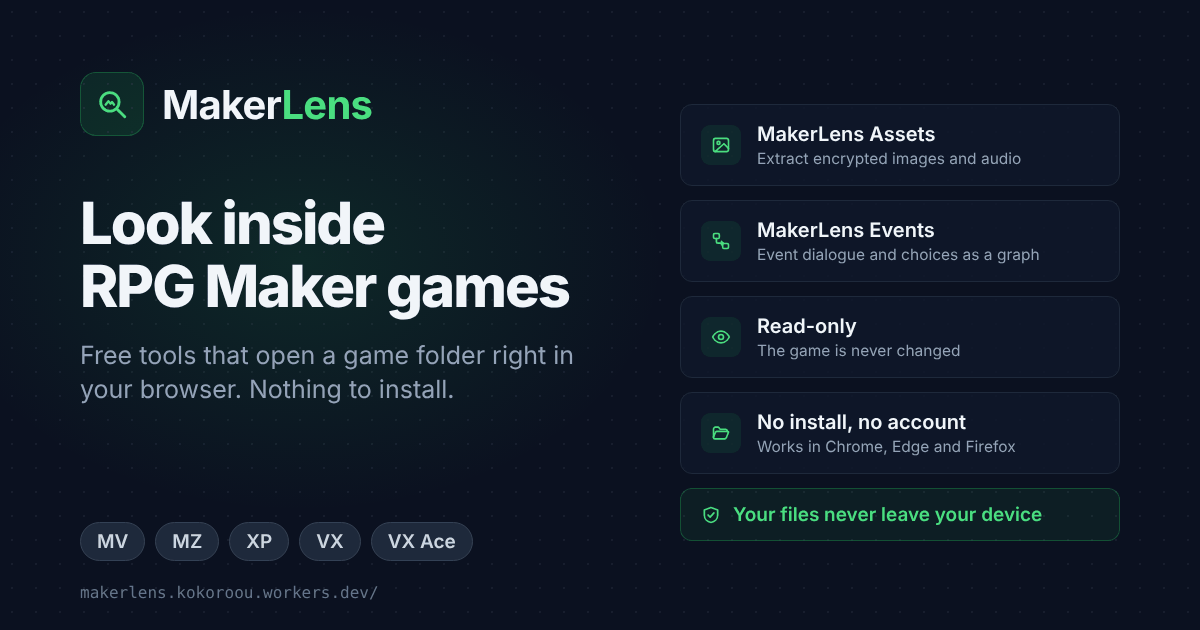
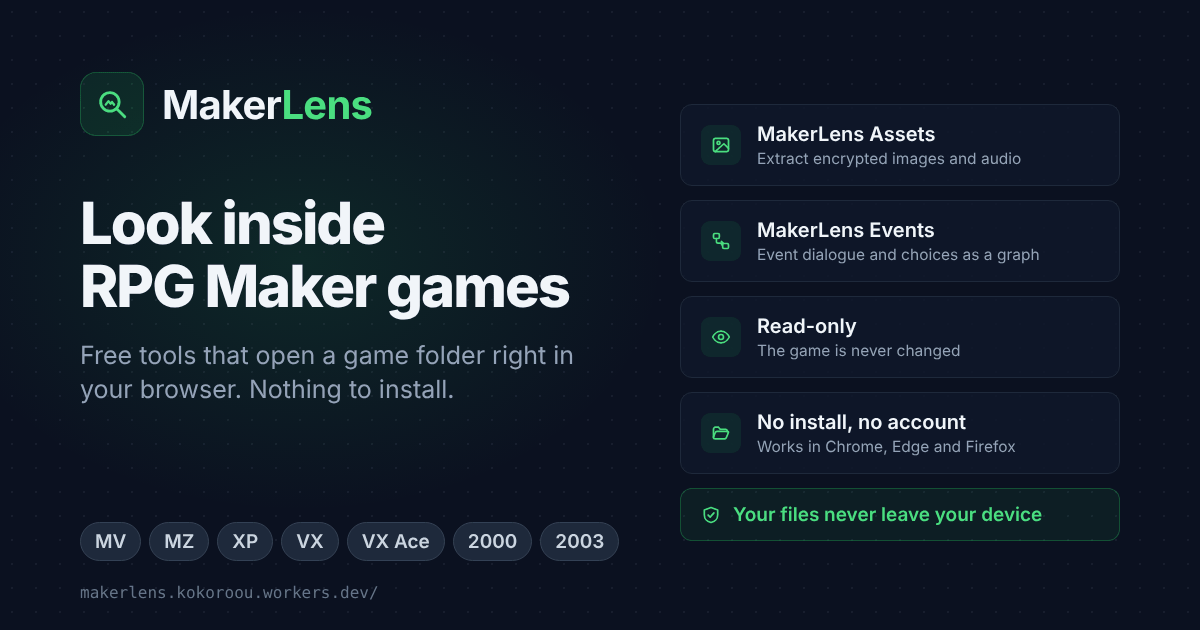
feat(site): Show the new engines and tool features on the landing page (#12)

Changed region(s): [[0.0617, 0.8143, 0.5242, 0.9048]]

diff --git a/site/index.html b/site/index.html
@@ -9,7 +9,7 @@
 <!-- Same-origin only, plus the GoatCounter pixel (js: /assets/js/analytics.js). -->
 <meta http-equiv="Content-Security-Policy" content="default-src 'self'; script-src 'self'; style-src 'self'; img-src 'self' https://makerlens.goatcounter.com; connect-src 'none'; object-src 'none'; base-uri 'none'; form-action 'none'">
 <title>RPG Maker Tools Online — Extractor &amp; Event Viewer | MakerLens</title>
-<meta name="description" content="Free online RPG Maker tools: extract images and audio from MV, MZ, XP and VX Ace games, or see events as a flow graph. Runs in your browser; files stay on your device.">
+<meta name="description" content="Free online RPG Maker tools: extract images and audio, or read events as a flow graph and play cutscenes. MV to 2000/2003. Files never leave your device.">
 <!-- Search-console ownership verification (Google, Yandex; Naver uses /naver*.html). -->
 <meta name="google-site-verification" content="FnVffUw9mNNnalR3VY0JSJLWk53ZJZPw0Ekeueja_5g">
 <meta name="yandex-verification" content="485ca927a68fec8b">
@@ -21,14 +21,14 @@
 <meta property="og:site_name" content="MakerLens">
 <meta property="og:url" content="https://makerlens.kokoroou.workers.dev/">
 <meta property="og:title" content="RPG Maker Tools Online — Extractor &amp; Event Viewer | MakerLens">
-<meta property="og:description" content="Extract images and audio, or see event flow as a graph. Runs in your browser — your files are never uploaded.">
+<meta property="og:description" content="Extract images and audio, or read events as a graph and play cutscenes. Runs in your browser — your files are never uploaded.">
 <meta property="og:image" content="https://makerlens.kokoroou.workers.dev/og-image.png">
 <meta property="og:image:width" content="1200">
 <meta property="og:image:height" content="630">
 <meta property="og:image:alt" content="MakerLens — look inside RPG Maker games in your browser">
 <meta name="twitter:card" content="summary_large_image">
 <meta name="twitter:title" content="RPG Maker Tools Online — Extractor &amp; Event Viewer | MakerLens">
-<meta name="twitter:description" content="Extract images and audio, or see event flow as a graph. Runs in your browser — your files are never uploaded.">
+<meta name="twitter:description" content="Extract images and audio, or read events as a graph and play cutscenes. Runs in your browser — your files are never uploaded.">
 <meta name="twitter:image" content="https://makerlens.kokoroou.workers.dev/og-image.png">
 <meta name="twitter:image:alt" content="MakerLens — look inside RPG Maker games in your browser">
 <!-- One entity graph for the family: the tools' own pages use the same @id values
@@ -63,7 +63,7 @@
       "@id": "https://makerlens.kokoroou.workers.dev/assets/#app",
       "name": "MakerLens Assets",
       "url": "https://makerlens.kokoroou.workers.dev/assets/",
-      "description": "View and extract encrypted images and audio from RPG Maker MV, MZ, XP, VX and VX Ace games in the browser.",
+      "description": "Browser-based tool to view, preview, and extract encrypted images and audio from RPG Maker MV, MZ, XP, VX, VX Ace, 2000 and 2003 games. Files are processed locally and never uploaded.",
       "applicationCategory": "MultimediaApplication",
       "operatingSystem": "Any (web browser)",
       "isAccessibleForFree": true,
@@ -75,7 +75,7 @@
       "@id": "https://makerlens.kokoroou.workers.dev/events/#app",
       "name": "MakerLens Events",
       "url": "https://makerlens.kokoroou.workers.dev/events/",
-      "description": "See the event commands of RPG Maker MV and MZ games (dialogue, choices, conditions, switches) as an interactive flow graph. Read-only.",
+      "description": "Browser-based, read-only viewer for RPG Maker MV, MZ, VX Ace, VX, XP and 2000/2003 events. Shows the dialogue, choices, conditions, switches, variables, labels and jumps of map and common events as an interactive flow graph, and plays dialogue scenes.",
       "applicationCategory": "DeveloperApplication",
       "operatingSystem": "Any (web browser)",
       "isAccessibleForFree": true,
@@ -107,16 +107,16 @@
     <article class="tool">
       <span class="tool-icon"><svg width="26" height="26" viewBox="0 0 24 24" fill="none" stroke="currentColor" stroke-width="1.8" stroke-linecap="round" stroke-linejoin="round" aria-hidden="true"><rect x="3" y="4" width="18" height="16" rx="2.5"/><circle cx="9" cy="9.5" r="1.8"/><path d="M21 16l-5.5-5.5L5 20"/></svg></span>
       <h2><a href="/assets/">Maker<span>Lens</span> <em>Assets</em></a></h2>
-      <p>Preview and download the encrypted images and audio of a game: <code>.rpgmvp</code>, <code>.png_</code>, <code>.ogg_</code>, <code>.rgss3a</code> and more. For modders and translators, and creators recovering their own work.</p>
-      <ul class="chips" aria-label="Supported versions"><li>MV</li><li>MZ</li><li>XP</li><li>VX</li><li>VX Ace</li></ul>
+      <p>Preview and download the images and audio of a game, encrypted or not: <code>.rpgmvp</code>, <code>.png_</code>, <code>.ogg_</code>, <code>.rgss3a</code>, <code>.xyz</code> and more. Filter by image size or audio length, hide duplicate files, save a folder as a ZIP. For modders and translators, and creators recovering their own work.</p>
+      <ul class="chips" aria-label="Supported versions"><li>MV</li><li>MZ</li><li>XP</li><li>VX</li><li>VX Ace</li><li>2000</li><li>2003</li></ul>
       <span class="go" aria-hidden="true">Open Assets →</span>
     </article>
 
     <article class="tool">
       <span class="tool-icon"><svg width="26" height="26" viewBox="0 0 24 24" fill="none" stroke="currentColor" stroke-width="1.8" stroke-linecap="round" stroke-linejoin="round" aria-hidden="true"><rect x="3" y="3" width="7" height="5" rx="1.5"/><rect x="14" y="10" width="7" height="5" rx="1.5"/><rect x="3" y="16" width="7" height="5" rx="1.5"/><path d="M6.5 8v8M10 5.5h3a1.5 1.5 0 011.5 1.5v3"/></svg></span>
       <h2><a href="/events/">Maker<span>Lens</span> <em>Events</em></a></h2>
-      <p>See the dialogue, choices, conditions and switches of any map or common event as a flow graph. Find what unlocks an ending or a hidden route. Read-only: the game is never changed.</p>
-      <ul class="chips" aria-label="Supported versions"><li>MV</li><li>MZ</li></ul>
+      <p>See the dialogue, choices, conditions and switches of any map or common event as a flow graph, and play a cutscene with its pictures, faces and sound. Search by name, start from your own save. Find what unlocks an ending or a hidden route. Read-only: the game is never changed.</p>
+      <ul class="chips" aria-label="Supported versions"><li>MV</li><li>MZ</li><li>XP</li><li>VX</li><li>VX Ace</li><li>2000</li><li>2003</li></ul>
       <span class="go" aria-hidden="true">Open Events →</span>
     </article>
   </section>
@@ -130,11 +130,11 @@
     <h2 id="faq-title">Common questions</h2>
     <div class="faq-item">
       <h3>How do I open .rpgmvp, .png_ or .rgss3a files?</h3>
-      <p>Use <a href="/assets/">MakerLens Assets</a>. Select the game folder (RPG Maker MV or MZ) or a <code>.rgssad</code>, <code>.rgss2a</code> or <code>.rgss3a</code> archive (XP, VX, VX Ace). The key is read from the game itself, so you can preview the images and audio and download them one by one or as a ZIP.</p>
+      <p>Use <a href="/assets/">MakerLens Assets</a>. Select the game folder: MV, MZ and archive-based games (<code>.rgssad</code>, <code>.rgss2a</code>, <code>.rgss3a</code>: XP, VX, VX Ace) all open from it, and so do 2000/2003 games with their <code>.xyz</code> images. The key is read from the game itself, so you can preview the images and audio and download them one by one or as a ZIP.</p>
     </div>
     <div class="faq-item">
       <h3>Can I see a game's dialogue, choices and switches without the editor?</h3>
-      <p>Yes. <a href="/events/">MakerLens Events</a> opens the data of a released RPG Maker MV or MZ game and draws each map or common event as a flow graph, with switch, variable and actor names filled in. It is read-only.</p>
+      <p>Yes. <a href="/events/">MakerLens Events</a> opens the data of a released RPG Maker game (any version from 2000 to MZ) and draws each map or common event as a flow graph, with switch, variable and actor names filled in. Events that show pictures with dialogue are listed as scenes you can play, and a save file lets them start from your own progress. It is read-only.</p>
     </div>
     <div class="faq-item">
       <h3>Are my game files uploaded anywhere?</h3>
@@ -142,7 +142,11 @@
     </div>
     <div class="faq-item">
       <h3>Which RPG Maker versions are supported?</h3>
-      <p>Assets: MV, MZ, XP, VX and VX Ace. Events: MV and MZ. Both tools are meant for games you own or have the rights holder's permission to inspect, not for repackaging or redistributing a game.</p>
+      <p>Both tools: MV, MZ, VX Ace, VX, XP, 2000 and 2003. Both are meant for games you own or have the rights holder's permission to inspect, not for repackaging or redistributing a game.</p>
+    </div>
+    <div class="faq-item">
+      <h3>Can I open the same game in both tools?</h3>
+      <p>Yes. After you open a game folder in Chrome or Edge, the <strong>Assets | Events</strong> switch in the header carries it to the other tool without picking it again. The folder stays on your device; the browser may ask once more before the other page can read it.</p>
     </div>
   </section>
 </main>

diff --git a/README.md b/README.md
@@ -5,8 +5,8 @@
 | Path | Tool | Source |
 |---|---|---|
 | `/` | Landing page | this repo (`site/`) |
-| `/assets/` | MakerLens Assets — extract images and audio (MV, MZ, XP, VX, VX Ace) | [Kokoroou/rpgmaker-assets-viewer](https://github.com/Kokoroou/rpgmaker-assets-viewer) |
-| `/events/` | MakerLens Events — event flow graph (MV, MZ) | [Kokoroou/rpgmaker-events-viewer](https://github.com/Kokoroou/rpgmaker-events-viewer) |
+| `/assets/` | MakerLens Assets — extract images and audio (MV, MZ, XP, VX, VX Ace, 2000, 2003) | [Kokoroou/rpgmaker-assets-viewer](https://github.com/Kokoroou/rpgmaker-assets-viewer) |
+| `/events/` | MakerLens Events — event flow graph and scene player (MV, MZ, VX Ace, VX, XP, 2000, 2003) | [Kokoroou/rpgmaker-events-viewer](https://github.com/Kokoroou/rpgmaker-events-viewer) |
 
 ## Direction
 
